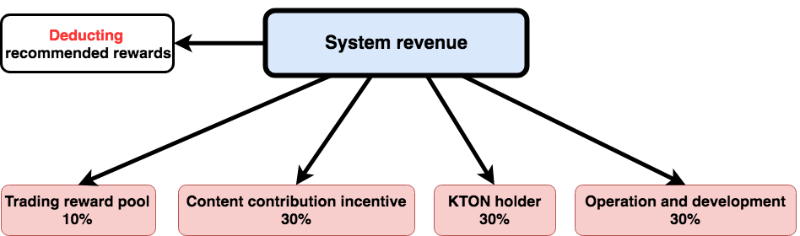
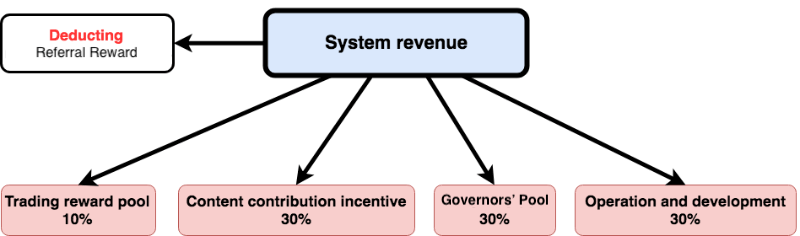
en: revenue model

Changed region(s): [[0.0, 0.178, 0.2188, 0.2669], [0.5312, 0.8008, 0.6875, 0.8898]]

diff --git a/advanced/evolution-land-dao/revenue-model.md b/advanced/evolution-land-dao/revenue-model.md
@@ -1,2 +1,76 @@
+---
+Self-funding Mechanism
+---
+
 # Revenue Model
 
+Just like any traditional game, Evolution Land generates revenue from players' activities. 
+
+## Revenue Sources
+
+This revenue comes through these channels:
+
+- **New Land Auction**
+  When new Land is put into the market, the auction income contributes to the revenue.
+
+- **New Apostle sales** 
+  Limited first-generation Apostle were sold at a fixed price; these contribute to the revenue pool.
+
+- **Second Market Trade Tax** 
+  When a user lists their property Land, Apostle, or other props on the in-game marketplace, a small fee is charged if the trade is successful. 
+
+- **Apostle Birth Fee** 
+  When breeding a new Apostle, a small birth fee is charged.
+
+- **Magic Potion Sales** 
+  Magic Potion sales income contributes to the revenue pool.
+
+- **Inter-continent Import Tax** 
+  When some goods, resources, or Apostles are transferred from other continents, inter-continent import tax is charged.
+
+- **Business Tax** 
+  Any other commercial business activities are charged for a small tax.
+
+The Parliament determines all the tax rates and fees listed above through the Governance process. Altogether, they build up the revenue to be distributed.
+
+## Revenue Distribution
+
+When game revenue is generated, it's distributed automatically and simultaneously within the same transaction. The processing logic for each transaction is as follows:
+
+1. Send expense to the designated recipient
+2. Invoke on-chain logic to process the transaction (such as transfer ownership of an asset)
+3. Pay referral reward to the referrer if there's any
+4. Split revenue (tax/fee) and send to destination contract for further distribution.
+
+System revenue will be split and sent to four special-purpose pools for further distribution. Their allocation is as follows:
+
+- Trading Reward Pool (Lottery Pool): 10%
+- Content Contribution Incentive Pool: 30%
+- Governors Pool: 30%
+- Operations & Dev Pool: 30%
+
+The allocation percentage is subject to the governance process.
+
+![Revenue Distribution](../../.gitbook/assets/system-revenue.png)
+
+### Trading Reward Pool
+
+This is also called the lottery pool. When players spent some money in the game, they are rewarded with Points that act as lottery tickets. Players can use them in the "Happy Lottery" gameplay to win a grand prize. The prize pool is filled up by this lottery tax from each spending transaction.
+
+Check out Point and Lottery for more information.
+
+### Content Contribution Incentive Pool
+
+This pool's purpose is to incentivize users that contribute to the prosperity of the game eco-system, either by designing buildings, attracting more users to the game, other any constructive ways to help the community grow. This pool can also serve as the funding for per-case grant applicants.
+
+Because of the subjective nature of this pool's purpose, no money has been spent yet. With the Governance module coming online, users can submit a proposal to apply for funding or tips.
+
+### Governor Pool
+
+Governor is a paying job. Any player can become a governor to participate in the governance process as long as they have staked interest in the game. This pool incentivizes governors' sacrificed liquidity.
+
+Check out [Governance](governance.md) for more information.
+
+### Operations & Dev Pool
+
+This pool is reserved for the bootstrapping dev team to subside human resources and operation costs.
